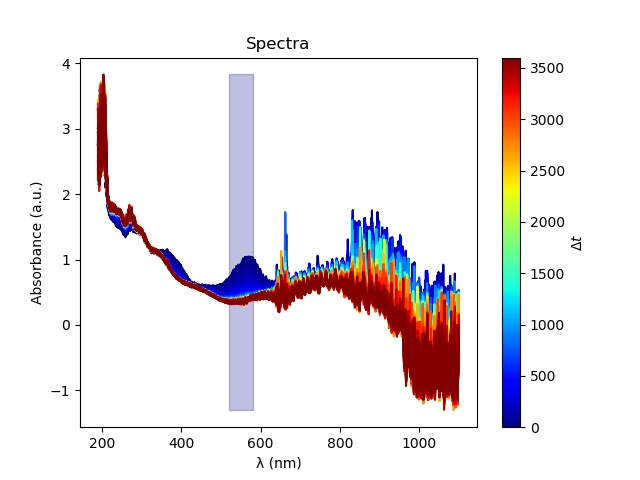
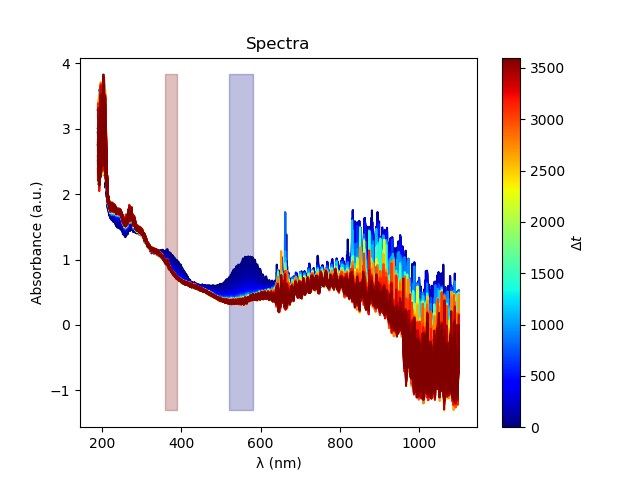
Added some more plots and little bit better fitting

Changed region(s): [[0.25, 0.1562, 0.2812, 0.5312], [0.25, 0.5625, 0.2812, 0.875]]

diff --git a/main.py b/main.py
@@ -75,25 +75,24 @@ if __name__ == '__main__':
 		'logfile': python_log,
 		'result_dir': res_dir,
 		'time_delay': 10,
-		'tracking_spectrax': [(520, 580)],
-		'spectra_blacklist': [0], 
-
+		'tracking_spectrax': [(520, 580), (360, 390)],
 		'heatmap_maxt': 60,
 	}
 
 	
 	cy = aKIN.main(**kinetics_settings, show_plots=False)
 	logfile = open(python_log, 'a')
-	cx = np.array([np.arange(yy.size)*10 for yy in cy]).flatten()
+	cx = [np.arange(yy.size)*10 for yy in cy]
 
 	fits = []
-	for i, y in enumerate(cy):
-		fits.append(exp_decay_fitter.fit_biexp_decay(cx, y - np.mean(y[-20:-1]), plots_dir=res_dir+'/plots', index=i))
+	for i, y, x in zip(range(len(cy)), cy, cx):
+		fits.append(exp_decay_fitter.fit_biexp_decay(x, y - np.mean(y[-20:-1]), plots_dir=res_dir+'/plots', index=i))
 
 	print('=== KINETICS', file=logfile)
-	print(f'Model: A01*exp(-k1*t) + A02*exp(-k2*t) + B,   t in [{cx.min()}, {cx.max()}] s', file=logfile)
-	for w, c in zip(kinetics_settings['tracking_spectrax'], fits):
-		print(f'Biexponential fitting for wavelength around {w[0]/2 + w[1]/2:.1f} nm:', file=logfile)
+	print(f'Model: A01*exp(-k1*t) + A02*exp(-k2*t) + B', file=logfile)
+	for w, c, x in zip(kinetics_settings['tracking_spectrax'], fits, cx):
+		print(f'Biexponential fitting for average between wavelenghts [{w[0]:.1f}, {w[1]:.1f}] nm:', file=logfile)
+		print(f'\tt in [{x.min()}, {x.max()}] s', file=logfile)
 		print(f'\tCorrelation (R2)  = {c["r2_value"]:.10f}', file=logfile)
 		print(f'\tk1                = {c["k1"]:.8f} s^-1', file=logfile)
 		print(f'\tk2                = {c["k2"]:.8f} s^-1', file=logfile)

diff --git a/analysis_kinetics.py b/analysis_kinetics.py
@@ -132,17 +132,22 @@ def main(*args, **kwargs):
 	plt.xlabel('t (s)')
 	plt.ylabel('Absorbance (a.u.)')
 	for twl, tabs in zip(tracking_spectrax, tracking_spectra):
-		low = twl[0]
-		high = twl[1]
-		
-		plt.plot(np.arange(len(tabs))*time_delay, tabs, label=r'$\lambda_{avg}$' + f' over [{low}, {high}] nm')
-
+		plt.plot(np.arange(len(tabs))*time_delay, tabs, label=r'$\lambda_{avg}$' + f' over [{twl[0]}, {twl[1]}] nm')
 	plt.legend()
 	plt.savefig(f'{plots_dir}/tracked_spectra.jpg')
 
+	plt.figure()
+	plt.title('Tracked spectrax (log-scale)')
+	plt.xlabel('t (s)')
+	plt.ylabel('ln(Absorbance)')
 	for twl, tabs in zip(tracking_spectrax, tracking_spectra):
-		low = twl[0]
-		high = twl[1]
+		plt.plot(np.arange(len(tabs))*time_delay, np.log(tabs), label=r'$\lambda_{avg}$' + f' over [{twl[0]}, {twl[1]}] nm')
+	plt.legend()
+	plt.savefig(f'{plots_dir}/tracked_spectra_log.jpg')
+
+	# for twl, tabs in zip(tracking_spectrax, tracking_spectra):
+	# 	low = twl[0]
+	# 	high = twl[1]
 
 		# fit_exp_decay(np.arange(len(tabs))*time_delay, np.asarray(tabs), title=f'Predicted and reference rate (around $\lambda ∈ [{low}, {high}]$ nm)', plots_dir=plots_dir, use_scipy=True)
 

diff --git a/pkg/exp_decay_fitter.py b/pkg/exp_decay_fitter.py
@@ -141,11 +141,6 @@ def fit_biexp_decay(x, y, p0=None, show_fit=True,
 		k2 = 1/10000
 		A02 = .2
 
-
-		# k1 = 1/100
-		# k2 = 1/1000
-		# A01 = 1
-		# A02 = 0
 		p0 = [k1, k2, A01, A02, 0]
 
 	f = lambda x, k1, k2, A01, A02, B: A01 * np.exp(-k1*x) + A02 * np.exp(-k2*x) + B
